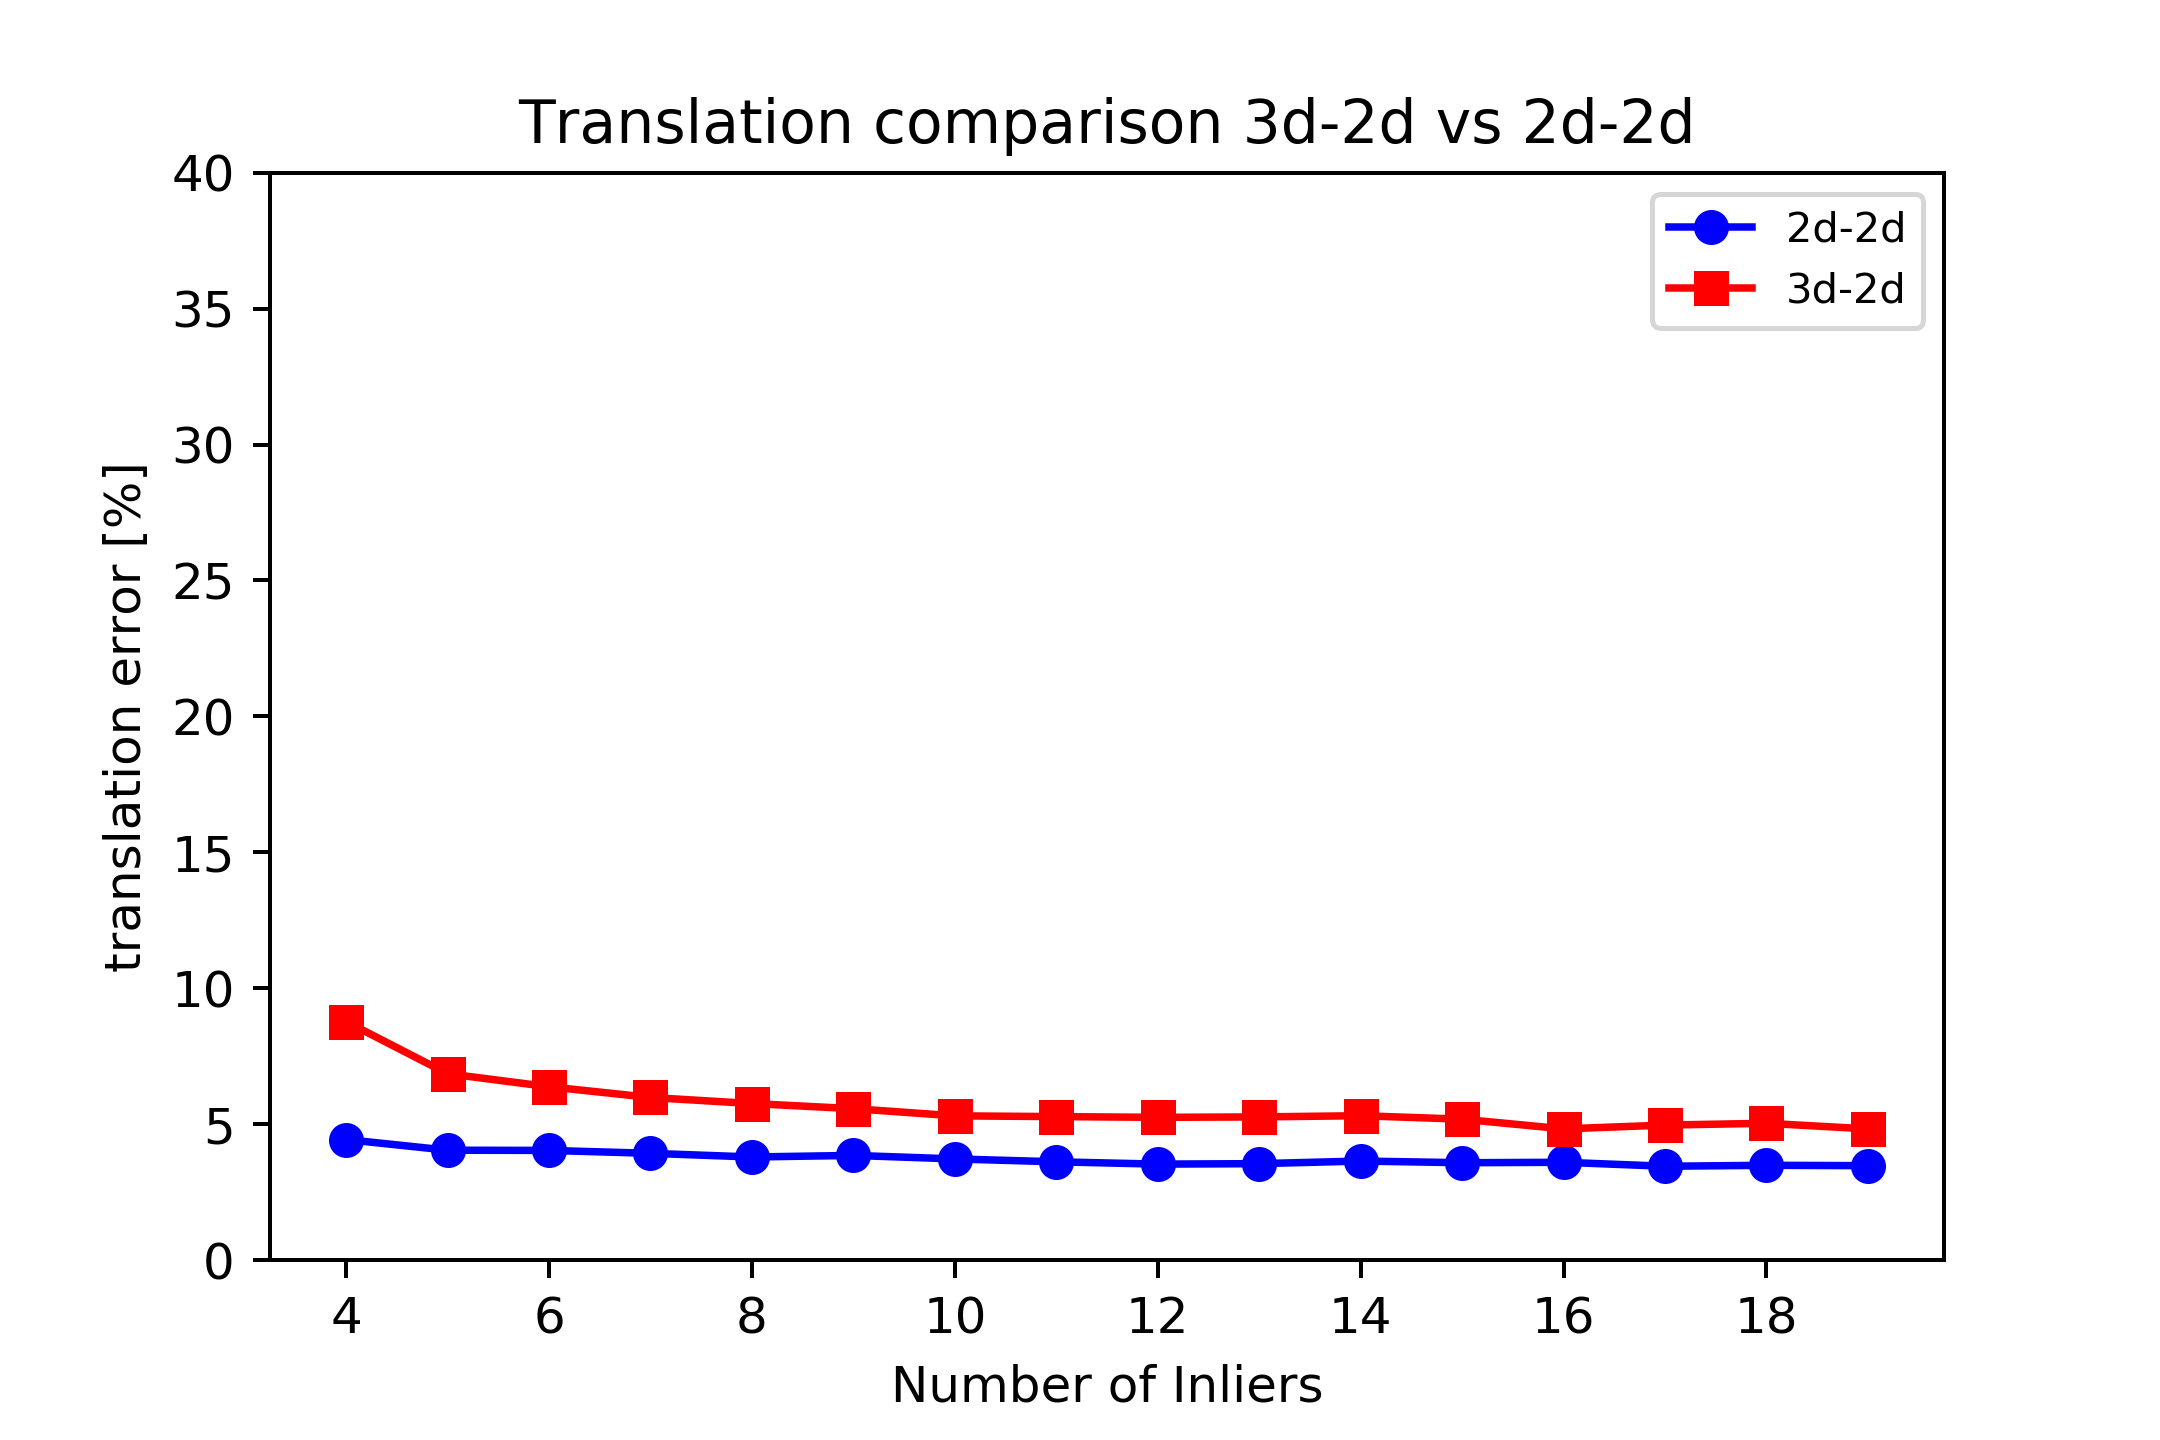
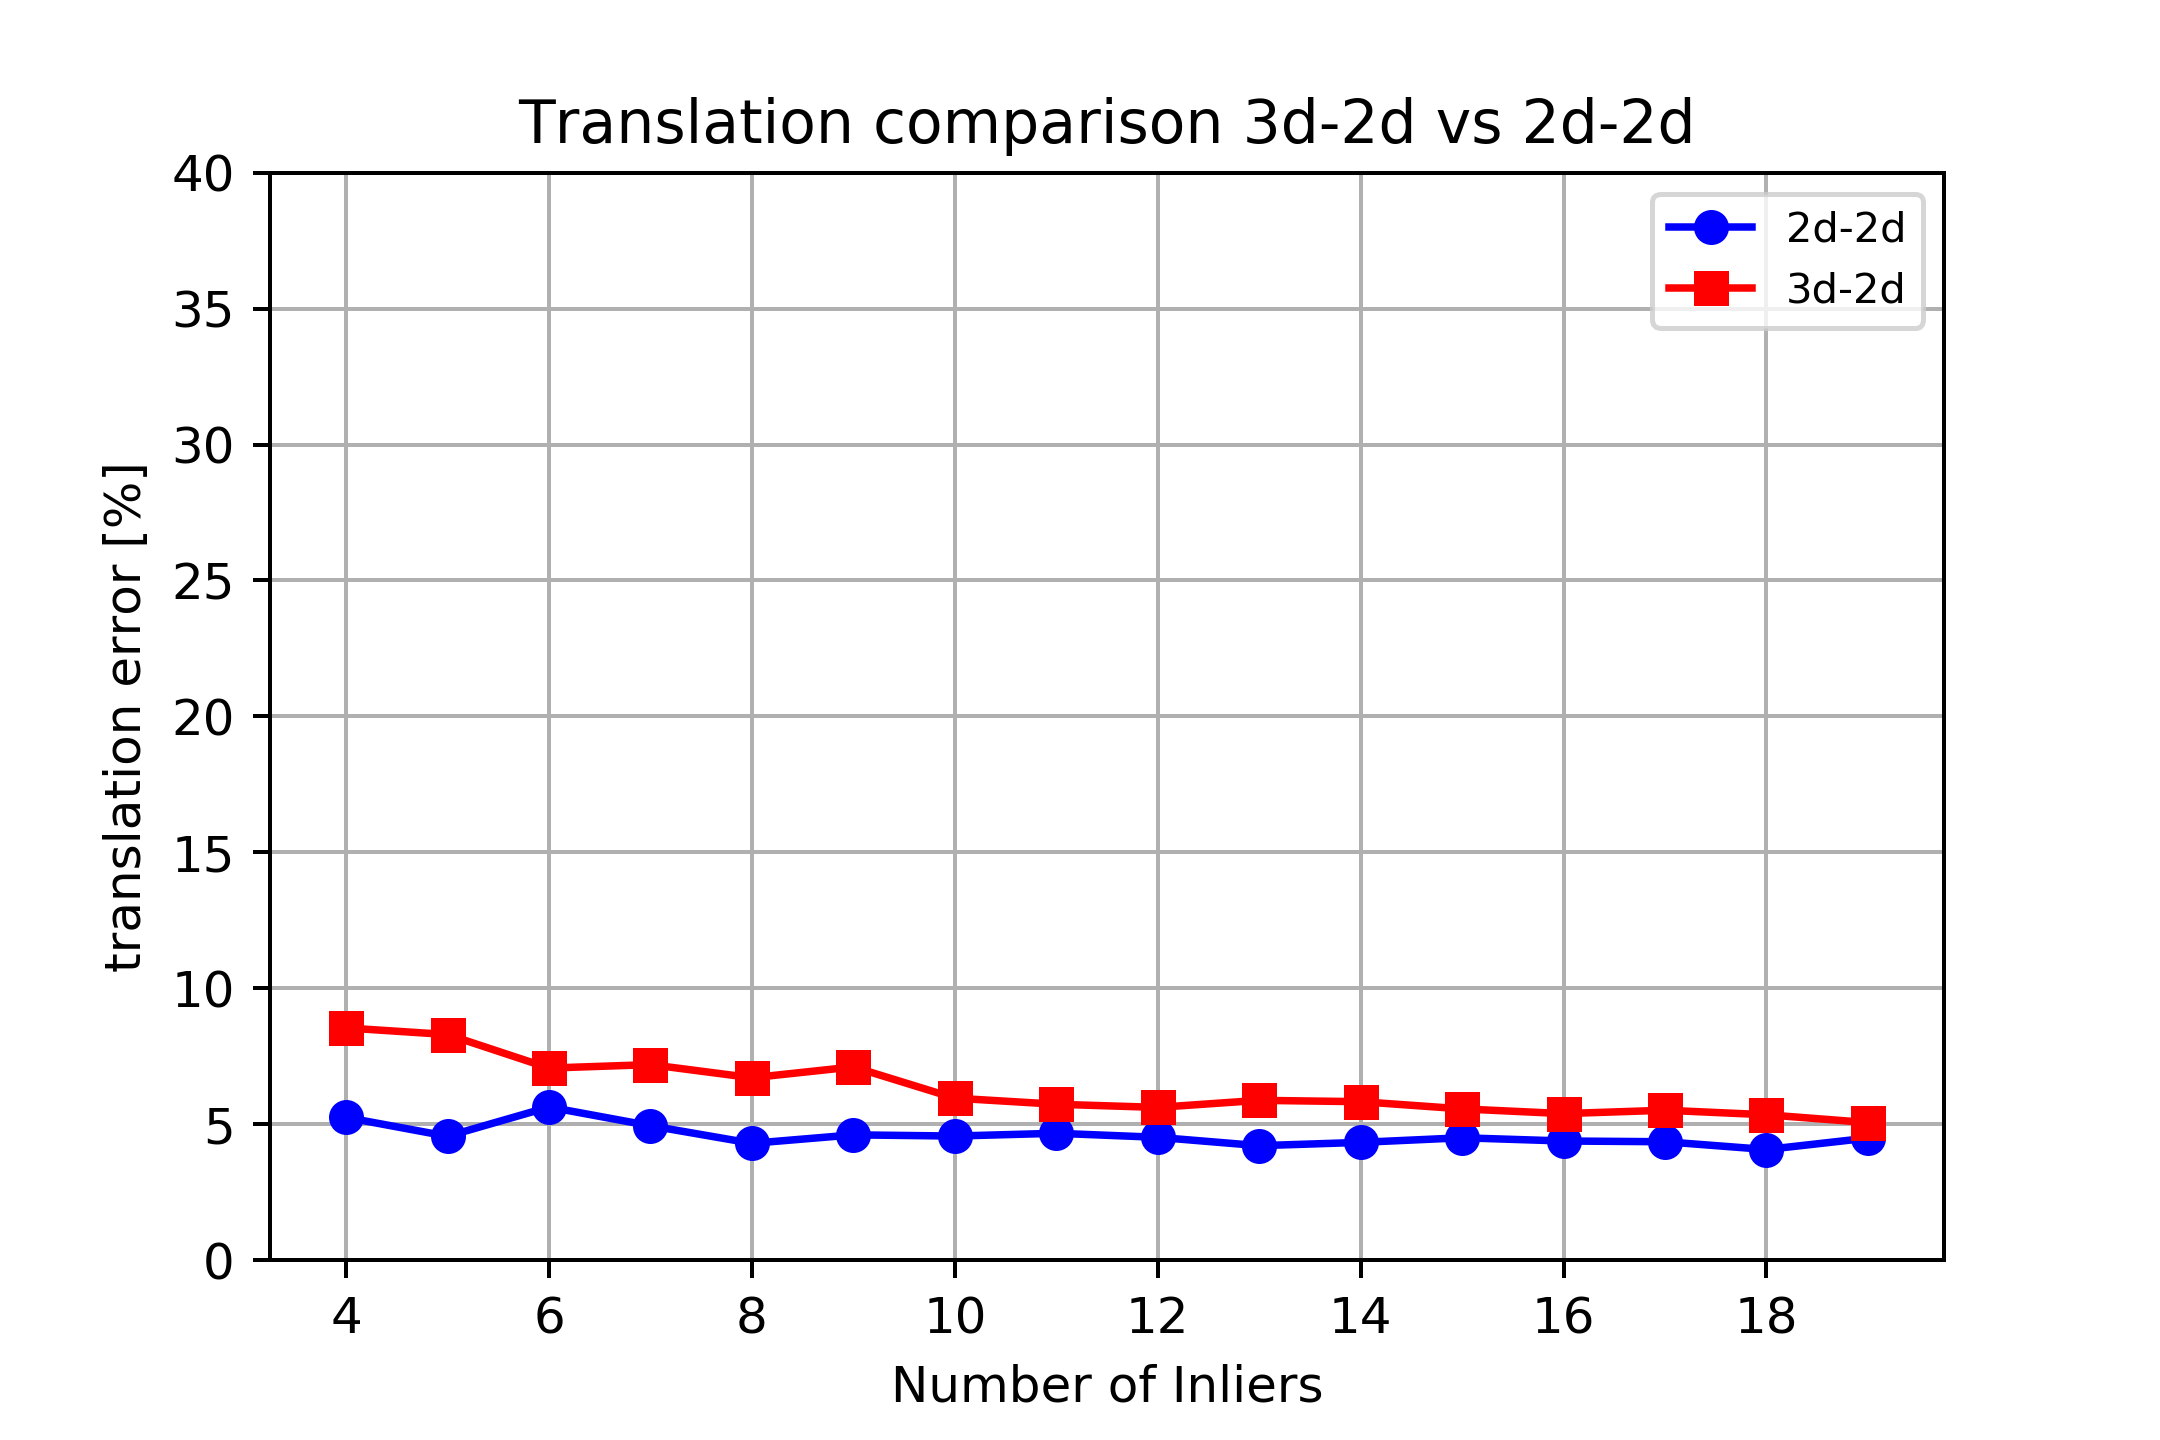
add grid

diff --git a/test_pnp_num.py b/test_pnp_num.py
@@ -142,19 +142,19 @@ def get_pose():
 #                        for z in dis:
 #                          pos.append([x, 0., z, al.d2r(roll), al.d2r(pitch), al.d2r(yaw)])  
     # pos = [[1.5, 1.0, 0.7, al.d2r(9), al.d2r(9), al.d2r(9)]]
-    # pos = [[0., 0., 0.5, al.d2r(0), al.d2r(20), al.d2r(0)]]
+    pos = [[1., 0., 0., al.d2r(0), al.d2r(20), al.d2r(0)]]
     
-    pos.append([1, 0, 0, al.d2r(20), al.d2r(0), al.d2r(0)])
-    pos.append([0, 1, 0, al.d2r(20), al.d2r(0), al.d2r(0)])
-    pos.append([0, 0, 1, al.d2r(20), al.d2r(0), al.d2r(0)])
-
-    pos.append([1, 0, 0, al.d2r(0), al.d2r(20), al.d2r(0)])
-    pos.append([0, 1, 0, al.d2r(0), al.d2r(20), al.d2r(0)])
-    pos.append([0, 0, 1, al.d2r(0), al.d2r(20), al.d2r(0)])
-
-    pos.append([1, 0, 0, al.d2r(0), al.d2r(0), al.d2r(20)])
-    pos.append([0, 1, 0, al.d2r(0), al.d2r(0), al.d2r(20)])
-    pos.append([0, 0, 1, al.d2r(0), al.d2r(0), al.d2r(20)])    
+#    pos.append([1, 0, 0, al.d2r(20), al.d2r(0), al.d2r(0)])
+#    pos.append([0, 1, 0, al.d2r(20), al.d2r(0), al.d2r(0)])
+#    pos.append([0, 0, 1, al.d2r(20), al.d2r(0), al.d2r(0)])
+#
+#    pos.append([1, 0, 0, al.d2r(0), al.d2r(20), al.d2r(0)])
+#    pos.append([0, 1, 0, al.d2r(0), al.d2r(20), al.d2r(0)])
+#    pos.append([0, 0, 1, al.d2r(0), al.d2r(20), al.d2r(0)])
+#
+#    pos.append([1, 0, 0, al.d2r(0), al.d2r(0), al.d2r(20)])
+#    pos.append([0, 1, 0, al.d2r(0), al.d2r(0), al.d2r(20)])
+#    pos.append([0, 0, 1, al.d2r(0), al.d2r(0), al.d2r(20)])    
     
     return np.array(pos)
 
@@ -293,6 +293,7 @@ def compare_translation():
     ax1.set_xlabel('Number of Inliers')
     ax1.set_title('Translation comparison 3d-2d vs 2d-2d')
     ax1.legend(loc='upper right', fontsize='small')
+    ax1.grid()
     plt.savefig("./result/translation_comparison.png", dpi=360)
     
     plt.draw()
@@ -382,6 +383,7 @@ def compare_rotation():
     ax1.set_xlabel('Number of Inlier1s')
     ax1.set_title('Rotation comparison 3d-2d vs 2d-2d')
     ax1.legend(loc='upper right', fontsize='small')
+    ax1.grid()
     plt.savefig("./result/rotation_comparison.png", dpi=360)
     
     plt.draw()
@@ -513,7 +515,7 @@ def debug():
 
 if __name__=="__main__":
     compare_translation()
-    # compare_rotation()
+    compare_rotation()
     # generate_data_for_test()
     # test_one_pose()
 
